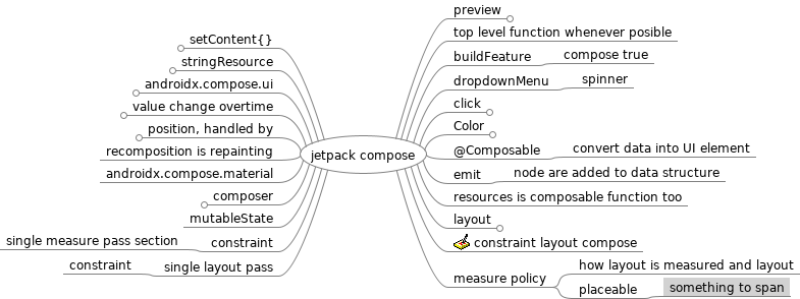
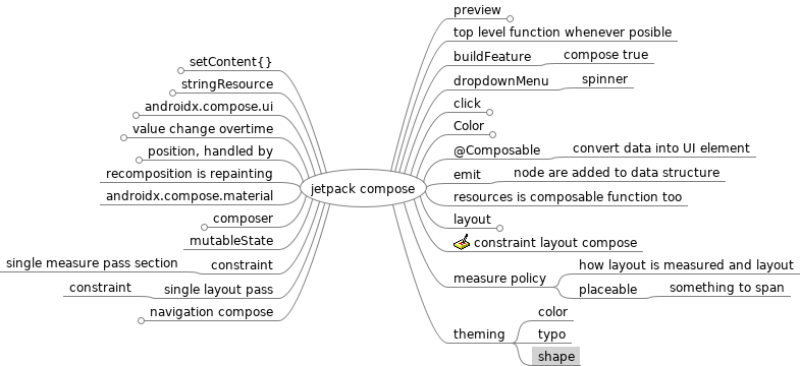
update lecture notes

Changed region(s): [[0.0, 0.0, 1.0, 1.0]]

diff --git a/golang web.mm b/golang web.mm
@@ -12,7 +12,7 @@
 </node>
 <node CREATED="1645978378054" ID="ID_1576394384" MODIFIED="1645978384313" TEXT="go.mod"/>
 </node>
-<node CREATED="1646144791918" FOLDED="true" ID="ID_460133849" MODIFIED="1646240315573" POSITION="left" TEXT="intro">
+<node CREATED="1646144791918" ID="ID_460133849" MODIFIED="1646270209638" POSITION="left" TEXT="intro">
 <node CREATED="1646144794279" FOLDED="true" ID="ID_1769195233" MODIFIED="1646145892400" TEXT="module">
 <node CREATED="1646144796502" ID="ID_857361042" MODIFIED="1646144804929" TEXT="manage and version control 3rd party "/>
 <node CREATED="1646144853588" FOLDED="true" ID="ID_1186864417" MODIFIED="1646145779800" TEXT="module name">
@@ -44,7 +44,7 @@
 </node>
 </node>
 </node>
-<node CREATED="1646146291694" ID="ID_970531916" MODIFIED="1646146293984" TEXT="trailing">
+<node CREATED="1646146291694" FOLDED="true" ID="ID_970531916" MODIFIED="1646270217219" TEXT="trailing">
 <node CREATED="1646146294663" FOLDED="true" ID="ID_704575411" MODIFIED="1646147159388" TEXT="/">
 <node CREATED="1646146295890" ID="ID_1797677050" MODIFIED="1646146301190" TEXT="mirip dengan /**"/>
 <node CREATED="1646146303898" ID="ID_443044044" MODIFIED="1646146308301" TEXT="pattern matching"/>
@@ -58,7 +58,7 @@
 <node CREATED="1646146931474" ID="ID_1644459623" MODIFIED="1646146939240" TEXT="w.WriteHeader(code)"/>
 </node>
 <node CREATED="1646147143758" ID="ID_1620451401" MODIFIED="1646147155511" TEXT="http.Error(w, &quot;message&quot;,code)"/>
-<node CREATED="1646147522655" ID="ID_1190416020" MODIFIED="1646147529259" TEXT="suppressing system generated">
+<node CREATED="1646147522655" FOLDED="true" ID="ID_1190416020" MODIFIED="1646270219659" TEXT="suppressing system generated">
 <node CREATED="1646147529504" ID="ID_1929377357" MODIFIED="1646147540383" TEXT="w.Header()[header]= nil"/>
 </node>
 <node CREATED="1646147667382" ID="ID_183370300" MODIFIED="1646147676154" TEXT="fmt.FPrintF()"/>
@@ -94,10 +94,39 @@
 <node CREATED="1646148221612" ID="ID_1704935439" MODIFIED="1646148225350" POSITION="right" TEXT="status">
 <node CREATED="1646148225587" ID="ID_963603301" MODIFIED="1646148249772" TEXT="end in project structure page 35"/>
 </node>
-<node CREATED="1646240312651" ID="ID_611864463" MODIFIED="1646240320411" POSITION="left" TEXT="handler">
+<node CREATED="1646240312651" FOLDED="true" ID="ID_611864463" MODIFIED="1646270207172" POSITION="left" TEXT="handler">
 <node CREATED="1646240320772" ID="ID_1465201173" MODIFIED="1646240331984" TEXT="object yg implement http.Handler"/>
 <node CREATED="1646240650104" ID="ID_1850168368" MODIFIED="1646240655969" TEXT="handlerFunc"/>
 <node CREATED="1646240656217" ID="ID_1701533356" MODIFIED="1646240659215" TEXT="serveHttp"/>
+</node>
+<node CREATED="1646269017030" FOLDED="true" ID="ID_827228199" MODIFIED="1646270034618" POSITION="right" TEXT="configuration">
+<node CREATED="1646269020867" FOLDED="true" ID="ID_887519202" MODIFIED="1646269355495" TEXT="flag">
+<node CREATED="1646269022732" ID="ID_1258311824" MODIFIED="1646269028590" TEXT="flag.String("/>
+<node CREATED="1646269070283" ID="ID_1348208500" MODIFIED="1646269076285" TEXT="balikannya pointer"/>
+<node CREATED="1646269187310" ID="ID_1046826531" MODIFIED="1646269196449" TEXT="-namaFlag=value"/>
+<node CREATED="1646269260471" ID="ID_1592126672" MODIFIED="1646269267713" TEXT="ada -help"/>
+</node>
+<node CREATED="1646269342203" ID="ID_1638480893" MODIFIED="1646269347541" TEXT="environment">
+<node CREATED="1646269347794" ID="ID_830404822" MODIFIED="1646269351637" TEXT="os.Getenv"/>
+</node>
+<node CREATED="1646269390526" ID="ID_1410562271" MODIFIED="1646269400377" TEXT="passing env variable as configuration"/>
+<node CREATED="1646269471342" FOLDED="true" ID="ID_1168661246" MODIFIED="1646269866040" TEXT="logging">
+<node CREATED="1646269475269" ID="ID_186734621" MODIFIED="1646269503595" TEXT="log append date and time"/>
+<node CREATED="1646269479950" ID="ID_356113108" MODIFIED="1646269489130" TEXT="log.Fatal">
+<node CREATED="1646269489400" ID="ID_692854417" MODIFIED="1646269494240" TEXT="System.exit(1)"/>
+</node>
+</node>
+<node CREATED="1646269866667" ID="ID_1569278591" MODIFIED="1646269870169" TEXT="http.Server">
+<node CREATED="1646269870923" ID="ID_685111321" MODIFIED="1646269951791" TEXT="address"/>
+<node CREATED="1646269952044" ID="ID_1594972730" MODIFIED="1646269954107" TEXT="errorLog"/>
+<node CREATED="1646269954346" ID="ID_9793939" MODIFIED="1646269955877" TEXT="handler"/>
+</node>
+</node>
+<node CREATED="1646270037084" FOLDED="true" ID="ID_1501726799" MODIFIED="1646318877050" POSITION="left" TEXT="dependency injection?">
+<node CREATED="1646270042932" ID="ID_1349429963" MODIFIED="1646270049152" TEXT="how to create dependecy?"/>
+<node CREATED="1646270141764" ID="ID_1284529980" MODIFIED="1646270148492" TEXT="create application struct">
+<node CREATED="1646270151199" ID="ID_1529168752" MODIFIED="1646270160594" TEXT="semua handler jadi method disini"/>
+</node>
 </node>
 </node>
 </map>

diff --git a/jetpack compose.mm b/jetpack compose.mm
@@ -81,5 +81,25 @@
 <node CREATED="1645715502807" ID="ID_1278754304" MODIFIED="1645715506262" TEXT="something to span"/>
 </node>
 </node>
+<node CREATED="1646276010090" FOLDED="true" ID="ID_75476597" MODIFIED="1646318856281" POSITION="left" TEXT="navigation compose">
+<node CREATED="1646276067169" ID="ID_531556241" MODIFIED="1646276073162" TEXT="navHost">
+<node CREATED="1646276221397" ID="ID_800239051" MODIFIED="1646276229265" TEXT="start just a string"/>
+<node CREATED="1646277429330" ID="ID_844225039" MODIFIED="1646277435751" TEXT="composable"/>
+</node>
+<node CREATED="1646276154268" ID="ID_437646429" MODIFIED="1646276157848" TEXT="navController">
+<node CREATED="1646276158178" ID="ID_517885875" MODIFIED="1646276163414" TEXT="rememberNavController"/>
+</node>
+<node CREATED="1646276233046" ID="ID_737800087" MODIFIED="1646276235464" TEXT="routes">
+<node CREATED="1646276235754" ID="ID_471917681" MODIFIED="1646276239123" TEXT="pikir like url"/>
+</node>
+<node CREATED="1646276753462" ID="ID_816503874" MODIFIED="1646276759804" TEXT="navArgument">
+<node CREATED="1646276768041" ID="ID_1547479035" MODIFIED="1646276777801" TEXT="navArgumentBuilder"/>
+</node>
+</node>
+<node CREATED="1646318858426" ID="ID_1110133320" MODIFIED="1646318861889" POSITION="right" TEXT="theming">
+<node CREATED="1646318862122" ID="ID_777986374" MODIFIED="1646318863518" TEXT="color"/>
+<node CREATED="1646318863773" ID="ID_1196097229" MODIFIED="1646318865599" TEXT="typo"/>
+<node CREATED="1646318865838" ID="ID_115278529" MODIFIED="1646318867253" TEXT="shape"/>
+</node>
 </node>
 </map>
